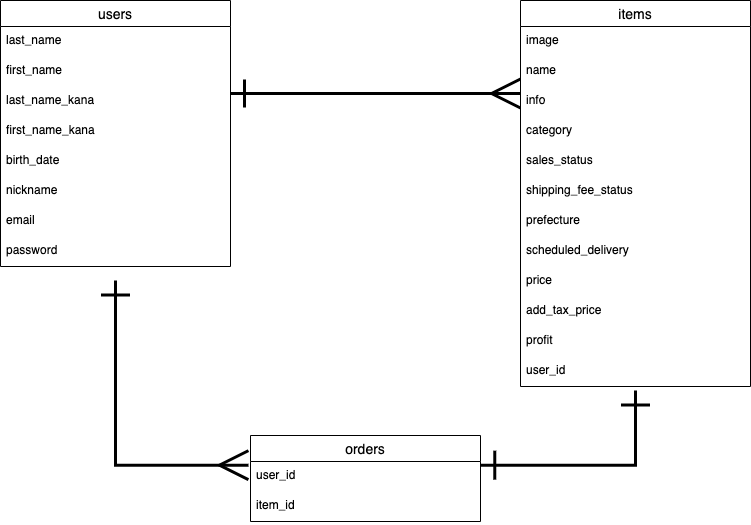
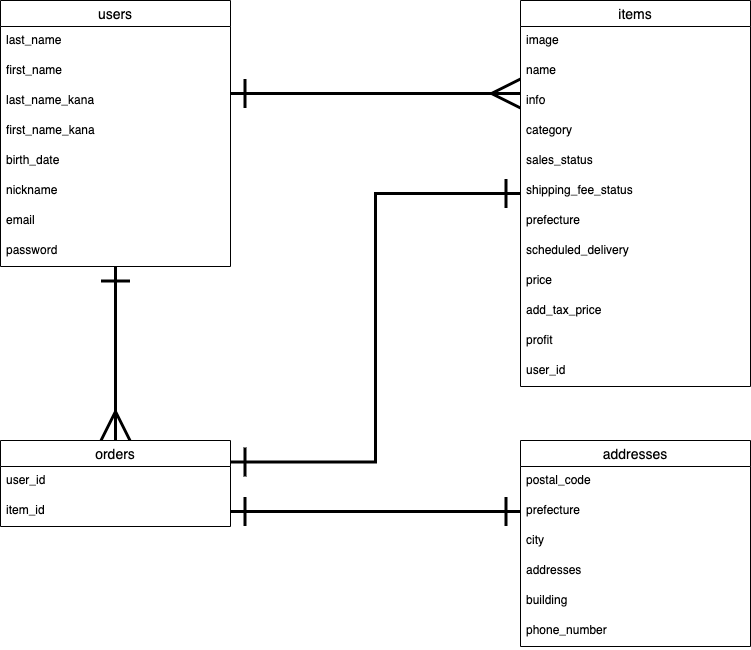
データベース設計修正２

diff --git a/README.md b/README.md
@@ -2,16 +2,16 @@
 
 ## users table
 
-| Column             | Type                | Options                 |
-|--------------------|---------------------|-------------------------|
-| last_name          | string              | null: false             |
-| first_name         | string              | null: false             |
-| last_name_kana     | string              | null: false             |
-| first_name_kana    | string              | null: false             |
-| birth_date         | date                | null: false             |
-| nickname           | string              | null: false             |
-| email              | string              | null: false             |
-| password           | string              | null: false             |
+| Column              | Type                | Options                   |
+|---------------------|---------------------|---------------------------|
+| last_name           | string              | null: false               |
+| first_name          | string              | null: false               |
+| last_name_kana      | string              | null: false               |
+| first_name_kana     | string              | null: false               |
+| birth_date          | date                | null: false               |
+| nickname            | string              | null: false               |
+| email               | string              | null: false, unique: true |
+| encrypted_password  | string              | null: false               |
 
 ### Association
 
@@ -31,8 +31,6 @@
 | item_prefecture_id                  | integer    | null: false       |
 | item_scheduled_delivery_id          | integer    | null: false       |
 | price                               | integer    | null: false       |
-| add-tax-price                       | integer    | null: false       |
-| profit                              | integer    | null: false       |
 | user                                | references | foreign_key: true |
 
 ### Association
@@ -45,10 +43,27 @@
 
 | Column                              | Type       | Options           |
 |-------------------------------------|------------|-------------------|
-| user_id                             | references | foreign_key: true |
-| item_id                             | references | foreign_key: true |
+| user                                | references | foreign_key: true |
+| item                                | references | foreign_key: true |
 
 ### Association
 
 - belongs_to :user
 - belongs_to :item
+- has_one :order
+
+# addresses table
+
+| Column                              | Type       | Options           |
+|-------------------------------------|------------|-------------------|
+| postal_code                         | integer    | null: false       |
+| prefecture_id                       | integer    | null: false       |
+| city                                | string     | null: false       |
+| addresses                           | string     | null: false       |
+| building                            | string     |                   |
+| phone_number                        | integer    | null: false       |
+| order                               | references | foreign_key: true |
+
+### Association
+
+- belongs_to :order
